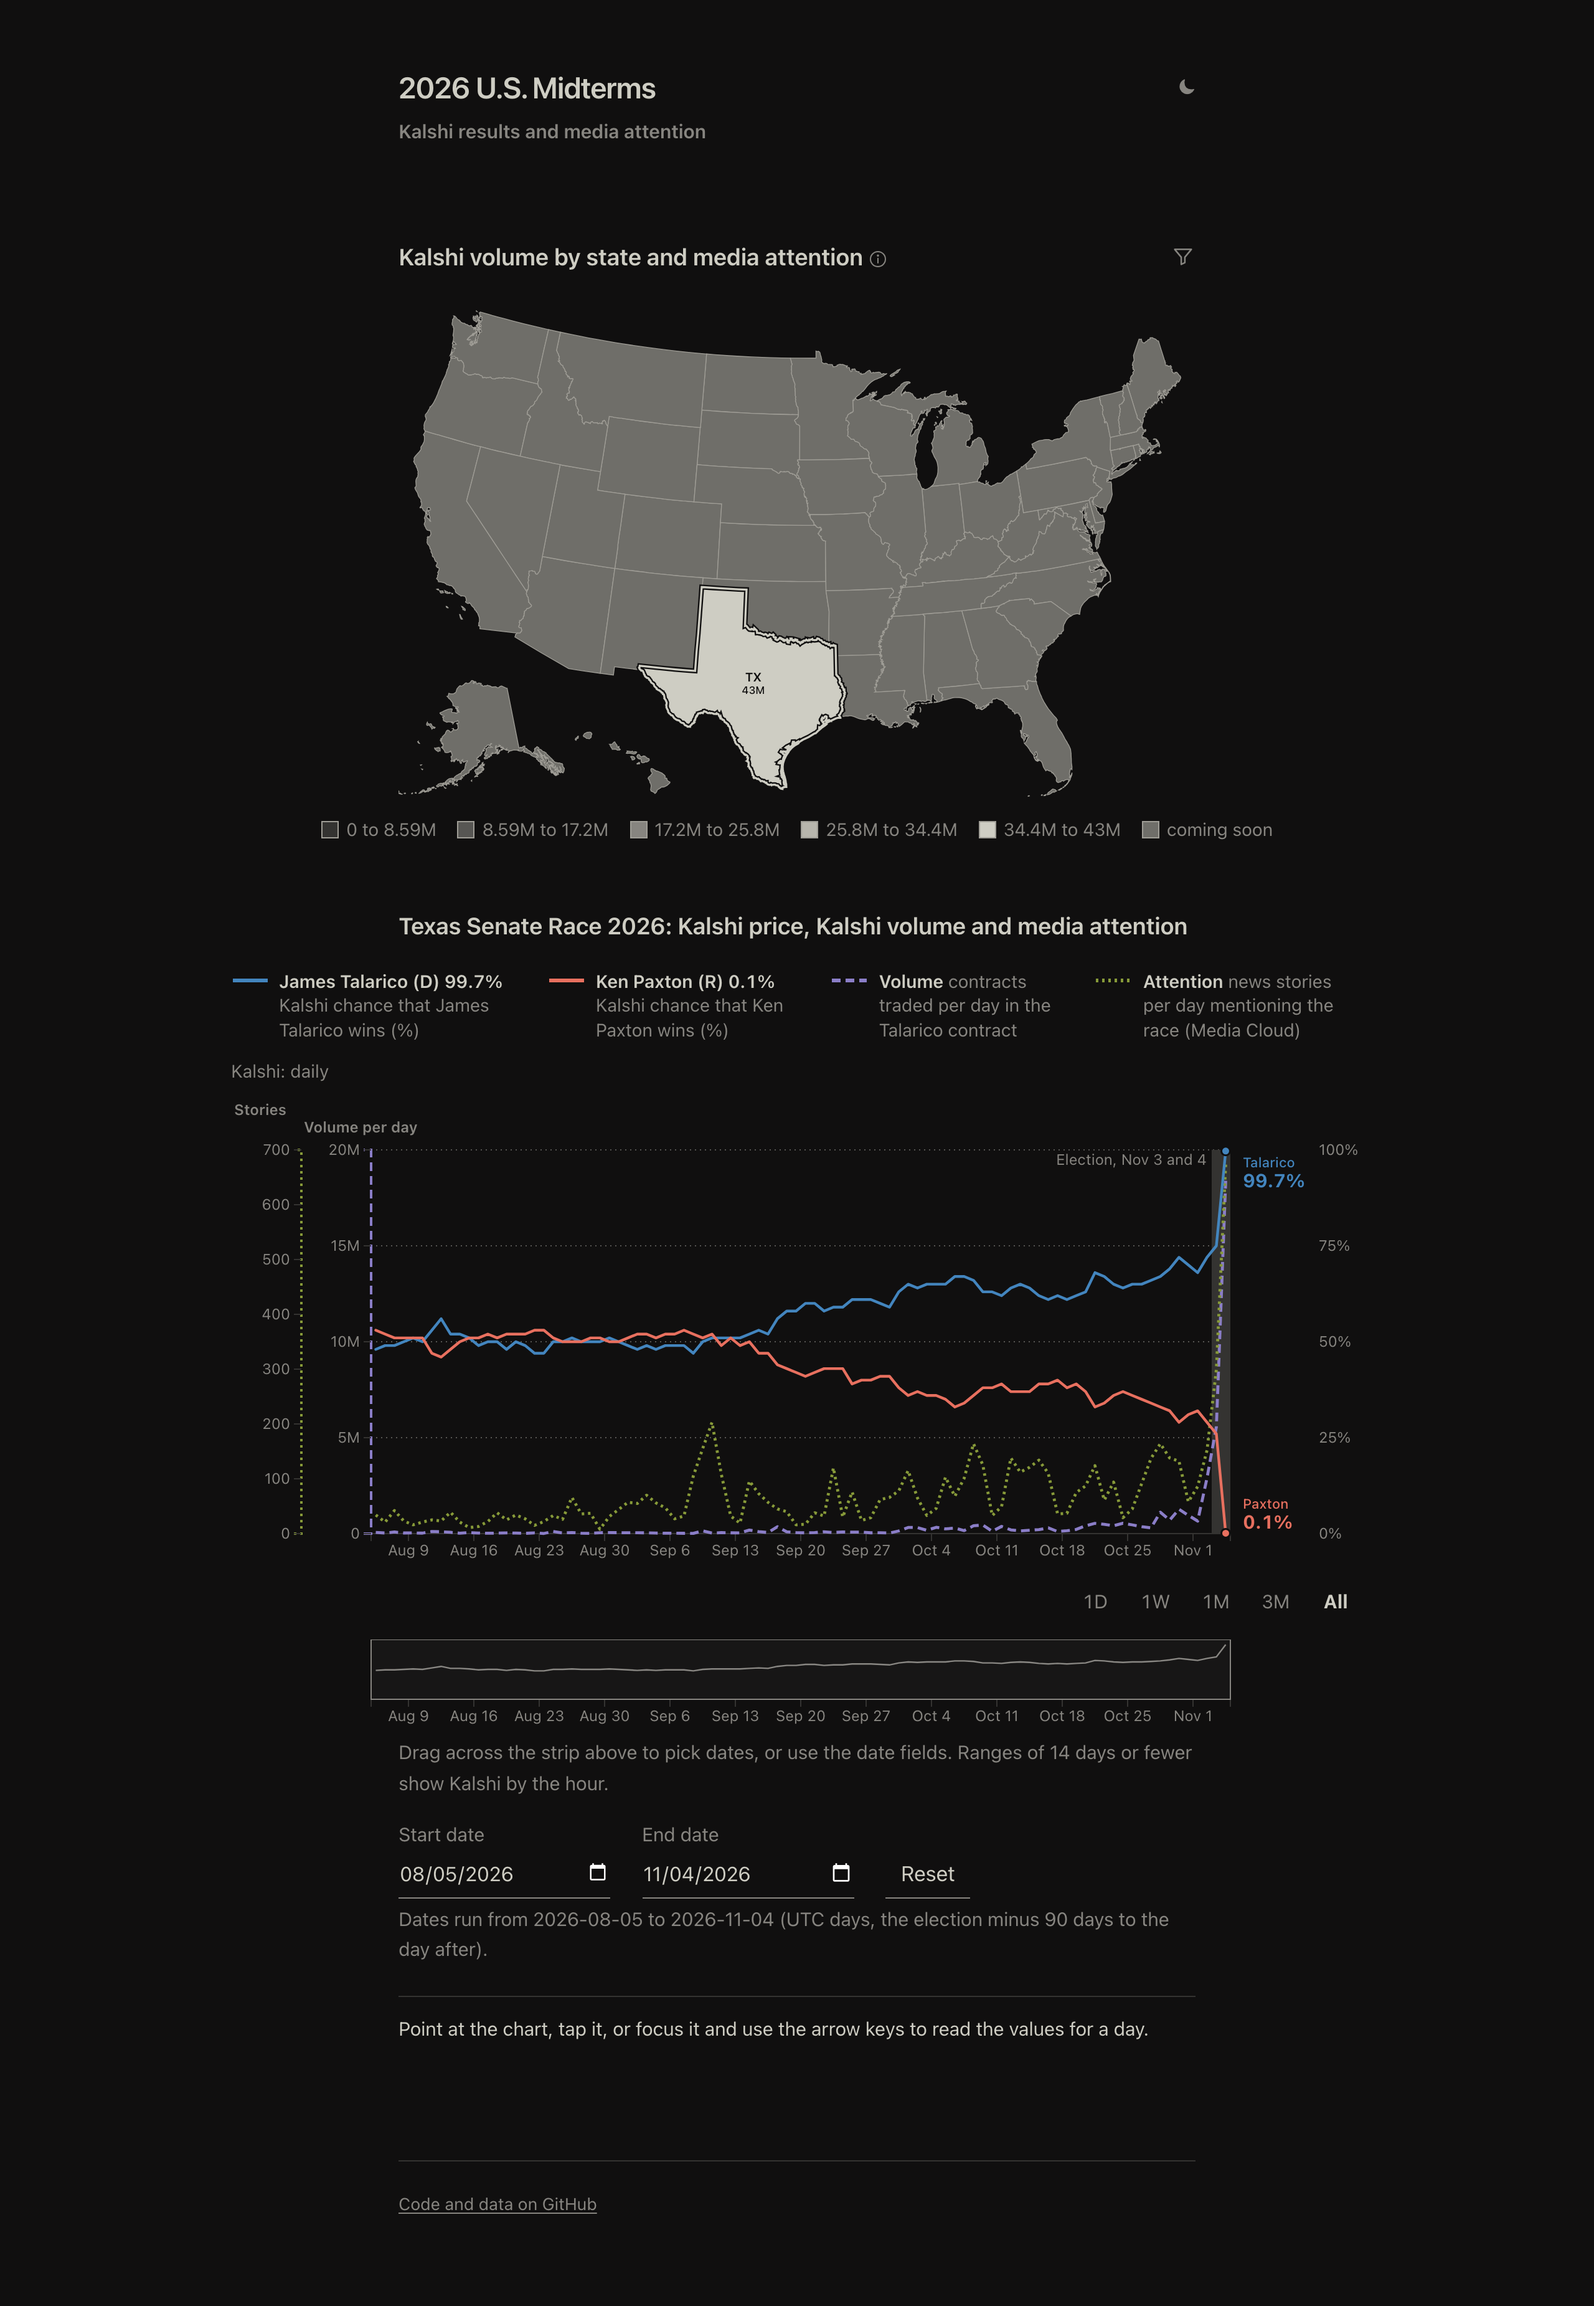
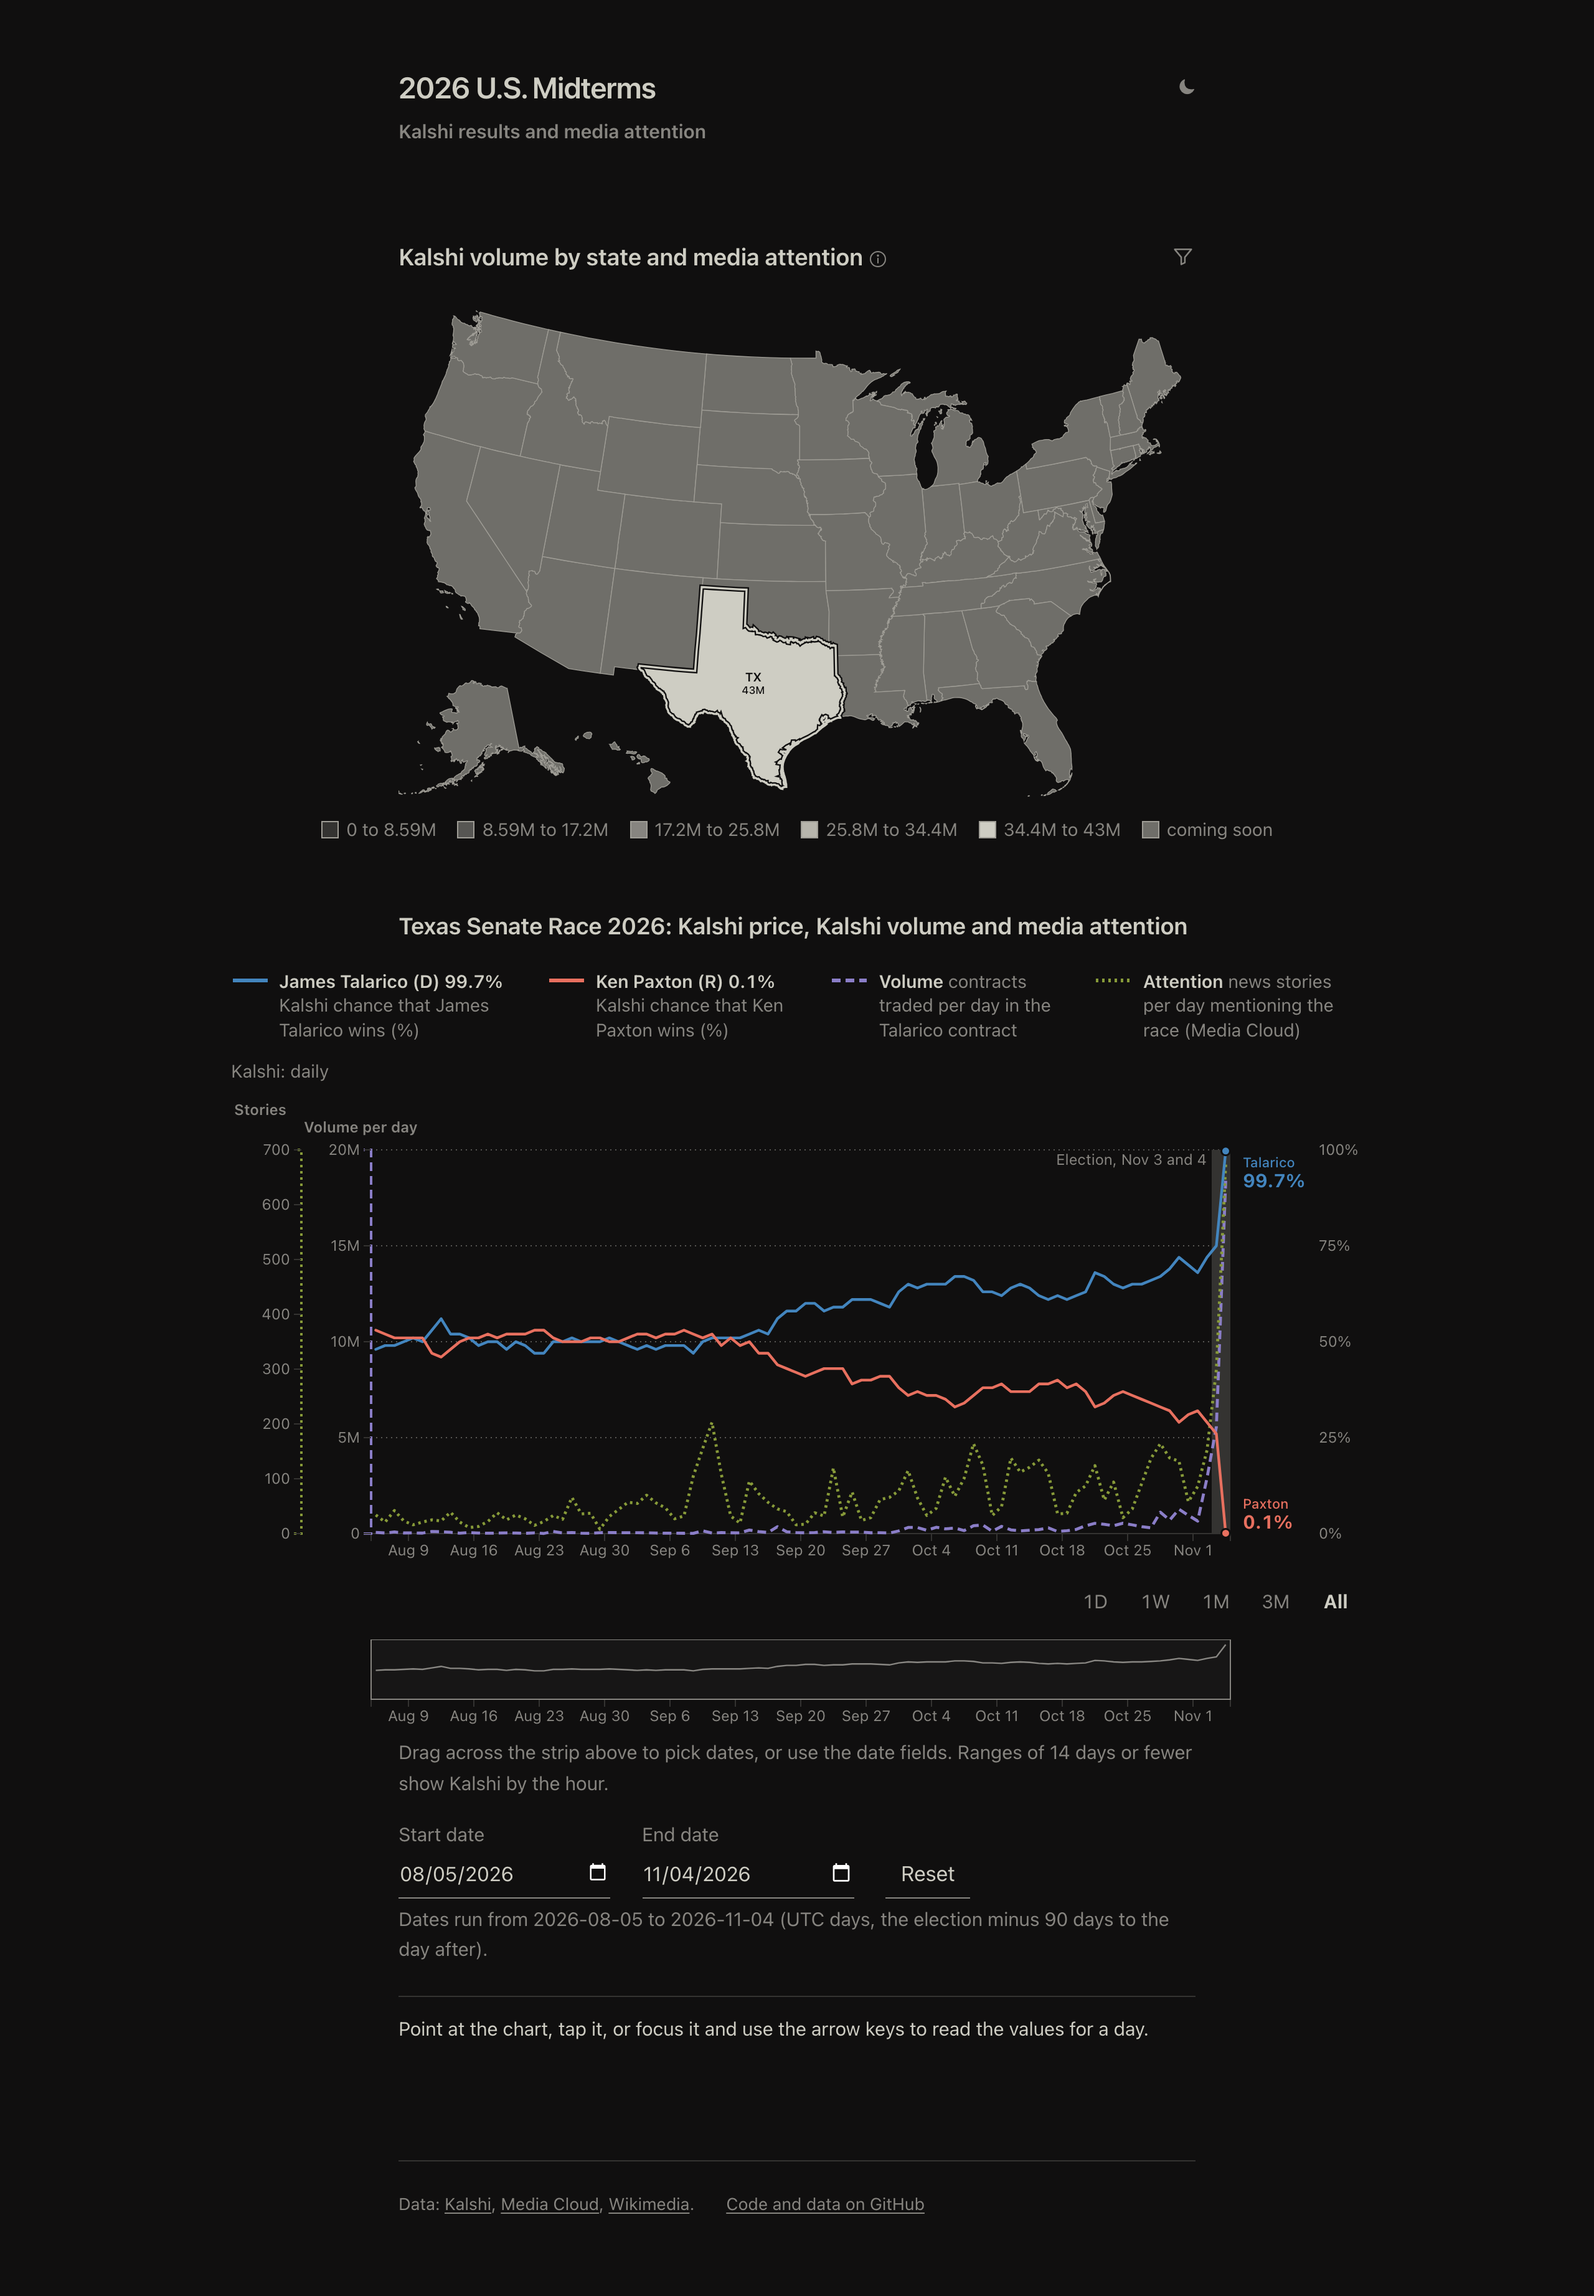
Dashboard H2: footer data attribution (Data: Kalshi, Media Cloud, Wikimedia., each a link) beside the GitHub link, one line at desktop and stacked on phones, 44 px tap targets, tests and verify checks, h2-footer screenshots

diff --git a/web/src/main.ts b/web/src/main.ts
@@ -1,5 +1,5 @@
 import "./style.css";
-import { chartTitle, DEFAULT_RACE, FUNDING_DISCLOSURE, MAP_TITLE, MEDIA_ATTENTION_DEF, PROJECT_NAME, REPO_LINK_TEXT, REPO_URL, SHOW_DETAILS,
+import { chartTitle, DEFAULT_RACE, FUNDING_DISCLOSURE, MAP_TITLE, MEDIA_ATTENTION_DEF, PROJECT_NAME, SHOW_DETAILS,
   SHOW_FUNDING_DISCLOSURE, STATES, SUBTITLE, TITLE } from "./config";
 import { chartSeries, hasData, hourlySeries, NEWS_COL, partyLines, WIKI_COL } from "./display";
 import { countChanged, DEFAULT_FILTERS, ENABLED_STATES, ENABLED_TYPES, type Filters, mapValue, METRICS, parseHash,
@@ -8,7 +8,7 @@ import { FILTER, INFO, themeIcon } from "./icons";
 import { type ChartState, LineChart } from "./linechart";
 import { fmtCompact, renderMap, type StateCell, stateText } from "./map";
 import { loadNewsModel, localServer, NewsView } from "./newsview";
-import { el, esc, raceTitle, RaceView, shownSeries, type RaceUi } from "./race";
+import { el, esc, footerItems, raceTitle, RaceView, shownSeries, type RaceUi } from "./race";
 import type { DisplayDaily, IndexData, IndexRace, RaceData } from "./types";
 import { byOffice, clampRange, raceIdFromSearch, type View } from "./transforms";
 
@@ -511,10 +511,10 @@ function refreshRace(ui: Ui) {
   writeUrl(ui);
 }
 
-/** The page footer: the link to the repository, and the funding disclosure when it is on. Same tab. */
+/** The page footer: the data attribution, the link to the repository, and the funding disclosure when it is on. */
 function footer(): HTMLElement {
-  return el("footer", { class: "wrap foot" }, `<div class="footin"><p><a href="${esc(REPO_URL)}" rel="noopener noreferrer">${
-    esc(REPO_LINK_TEXT)}</a></p>${SHOW_FUNDING_DISCLOSURE ? `<p class="disclosure">${esc(FUNDING_DISCLOSURE)}</p>` : ""}</div>`);
+  return el("footer", { class: "wrap foot" }, `<div class="footin">${footerItems()}${
+    SHOW_FUNDING_DISCLOSURE ? `<p class="disclosure">${esc(FUNDING_DISCLOSURE)}</p>` : ""}</div>`);
 }
 
 main();

diff --git a/web/src/style.css b/web/src/style.css
@@ -306,12 +306,16 @@ input[aria-invalid="true"] { border-bottom: 2px solid var(--fg); }
 .readout .rdate { font-weight: 600; }
 .readout .rnote, .tip .tnote { color: var(--muted); font-style: italic; }
 
-/* ---- footer: the GitHub link (and the funding disclosure with SHOW_FUNDING_DISCLOSURE) */
+/* ---- footer: the data attribution and the GitHub link (and the funding disclosure with SHOW_FUNDING_DISCLOSURE) */
 .foot { padding-top: 1.5rem; padding-bottom: 3rem; color: var(--muted); font-size: 0.8rem; }
 .foot > .footin { border-top: 1px solid var(--rule); padding-top: 0.75rem; }
 .foot p { margin: 0 0 0.5rem; }
+/* the two items on one line at desktop, wrapped onto separate lines on phones */
+.foot .footrow { display: flex; flex-wrap: wrap; align-items: center; column-gap: 1.5rem; }
+.foot .footrow p { margin: 0; }
 /* a 44 px tall tap target around the small link text */
-.foot a { display: inline-flex; align-items: center; min-height: 44px; color: var(--muted); }
+/* padding and a matching negative margin widen the short links (Kalshi) to 44 px without moving the text */
+.foot a { display: inline-flex; align-items: center; min-height: 44px; padding: 0 4px; margin: 0 -4px; color: var(--muted); }
 .foot a:hover { color: var(--fg); opacity: 1; }
 .foot ul { padding-left: 18px; }
 
@@ -332,6 +336,7 @@ input[aria-invalid="true"] { border-bottom: 2px solid var(--fg); }
   .readout .rd, .readout .rdate, .readout .rnote { white-space: normal; display: block; }
   .ranges { justify-content: space-between; }
   .readout .sep { display: none; }
+  .foot .footrow { flex-direction: column; align-items: flex-start; }
   .tip { display: none; }  /* the readout row under the chart shows the same values */
 }
 

diff --git a/web/src/race.ts b/web/src/race.ts
@@ -2,7 +2,7 @@
 // exports) plus the M3 chart types. Every race fact on the page comes from the race JSON, so switching the race
 // switches every title, number and query string.
 import { format, utcFormat } from "d3";
-import { MIN_PAIRS, SOURCE_CATALOG, STATES } from "./config";
+import { DATA_ATTRIBUTION, DATA_SOURCES, MIN_PAIRS, REPO_LINK_TEXT, REPO_URL, SOURCE_CATALOG, STATES } from "./config";
 import { attentionChart, calendarChart, dayCenter, type DayPoint, eventStudyChart, type Frame, heatmapChart,
   type HeatCell, type HourPoint, keptDomain, overlayChart, priceChart, scatterChart, SERIES_COLORS, type StudyPoint,
   volumeChart } from "./charts";
@@ -36,6 +36,12 @@ const fmtSi = format(".3~s");
 
 export function esc(s: unknown): string {
   return String(s).replace(/[&<>"']/g, (c) => ({ "&": "&amp;", "<": "&lt;", ">": "&gt;", '"': "&quot;", "'": "&#39;" })[c]!);
+}
+/** The two footer items: the data attribution with each source name a link, then the GitHub link. Same tab. */
+export function footerItems(): string {
+  const a = (url: string, text: string) => `<a href="${esc(url)}" rel="noopener noreferrer">${esc(text)}</a>`;
+  const attribution = DATA_SOURCES.reduce((html, s) => html.replace(esc(s.name), a(s.url, s.name)), esc(DATA_ATTRIBUTION));
+  return `<div class="footrow"><p class="attrib">${attribution}</p><p class="repo">${a(REPO_URL, REPO_LINK_TEXT)}</p></div>`;
 }
 function signed(n: number): string {
   return n > 0 ? `+${n}` : String(n);

diff --git a/web/tests/h2.test.ts b/web/tests/h2.test.ts
@@ -1,0 +1,23 @@
+import { describe, expect, it } from "vitest";
+import { DATA_ATTRIBUTION, DATA_SOURCES, REPO_LINK_TEXT, REPO_URL } from "../src/config";
+import { footerItems } from "../src/race";
+
+describe("footer data attribution", () => {
+  it("reads exactly Data: Kalshi, Media Cloud, Wikimedia.", () => {
+    expect(DATA_ATTRIBUTION).toBe("Data: Kalshi, Media Cloud, Wikimedia.");
+  });
+  it("links each source name to its site", () => {
+    expect(DATA_SOURCES.map((s) => `${s.name}|${s.url}`)).toEqual(["Kalshi|https://kalshi.com",
+      "Media Cloud|https://www.mediacloud.org", "Wikimedia|https://www.wikimedia.org"]);
+  });
+  it("footer markup has the attribution and the GitHub link, all four links same tab with rel noopener noreferrer", () => {
+    const html = footerItems();
+    const links = [...html.matchAll(/<a href="([^"]+)" rel="([^"]+)">([^<]+)<\/a>/g)].map((m) => `${m[3]}|${m[1]}|${m[2]}`);
+    expect(links).toEqual(["Kalshi|https://kalshi.com|noopener noreferrer", "Media Cloud|https://www.mediacloud.org|noopener noreferrer",
+      "Wikimedia|https://www.wikimedia.org|noopener noreferrer", `${REPO_LINK_TEXT}|${REPO_URL}|noopener noreferrer`]);
+    expect((html.match(/<a /g) ?? []).length).toBe(4);
+    expect(html).not.toContain("target=");
+    expect(html.replace(/<[^>]+>/g, "")).toBe(`${DATA_ATTRIBUTION}${REPO_LINK_TEXT}`);
+    expect(html).toMatch(/<p class="attrib">.*<\/p><p class="repo">.*<\/p>/);
+  });
+});

diff --git a/web/src/config.ts b/web/src/config.ts
@@ -89,6 +89,12 @@ export function chartTitle(state: string, office: string, year: string): string 
   return CHART_TITLE.replace("{state}", state).replace("{office}", office).replace("{year}", year);
 }
 
-// The page footer: one link to the code and data.
+// The page footer: the data attribution (each source name a link) and one link to the code and data.
+export const DATA_ATTRIBUTION = "Data: Kalshi, Media Cloud, Wikimedia.";
+export const DATA_SOURCES: readonly { name: string; url: string }[] = [
+  { name: "Kalshi", url: "https://kalshi.com" },
+  { name: "Media Cloud", url: "https://www.mediacloud.org" },
+  { name: "Wikimedia", url: "https://www.wikimedia.org" },
+];
 export const REPO_URL = "https://github.com/afisher3578/kalshi-midterm-analysis";
 export const REPO_LINK_TEXT = "Code and data on GitHub";
